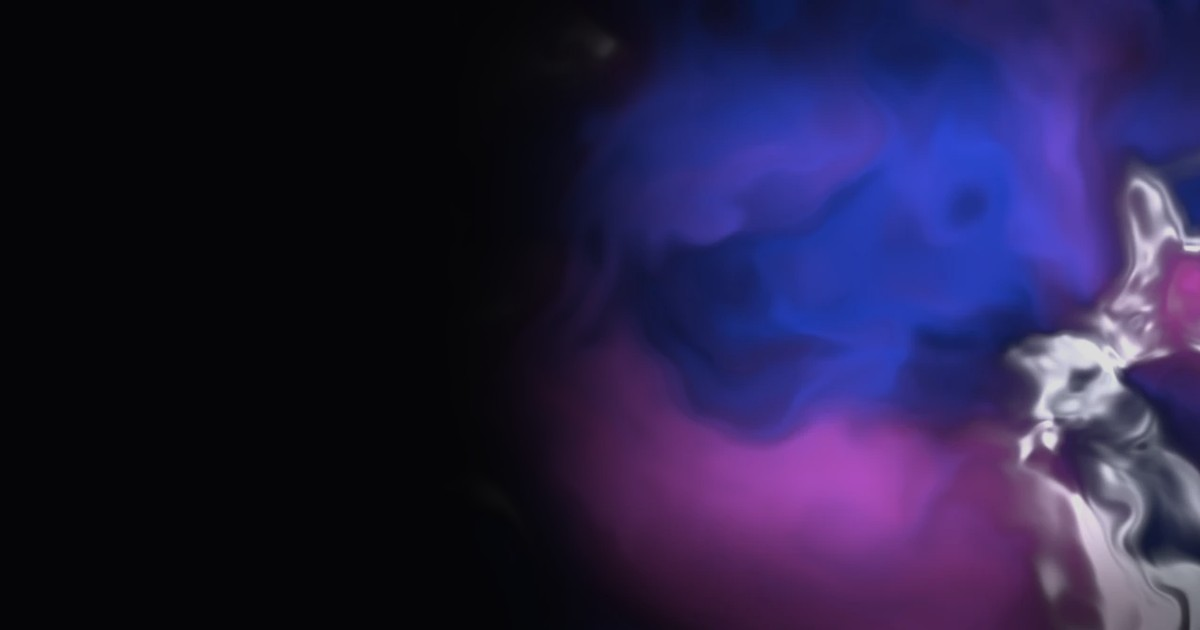
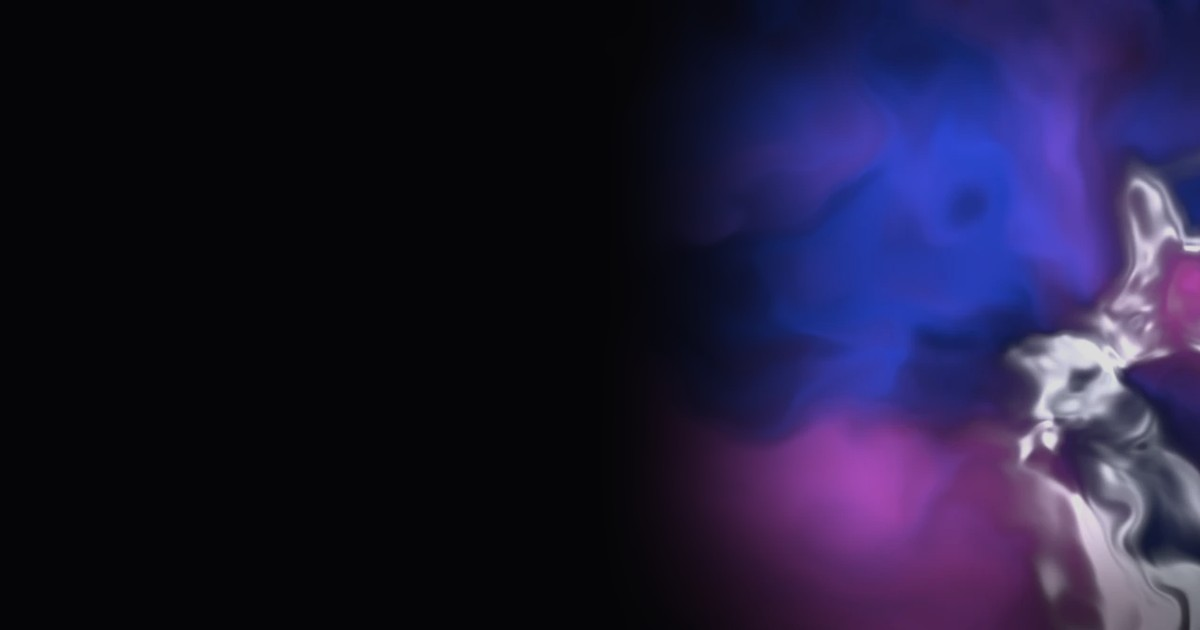
Share card: literal file paths so the build ships only its two images; wider black band before the shader
Claude-Session: https://claude.ai/code/session_01TjeQnQp2J5prxmvBpGHwwk

Changed region(s): [[0.4317, 0.0, 0.7092, 1.0]]

diff --git a/src/app/opengraph-image.tsx b/src/app/opengraph-image.tsx
@@ -52,11 +52,14 @@ async function loadLocalGeist(): Promise<Font | null> {
   }
 }
 
-/** A file under public/ as a data URL, or null when it cannot be read. */
-async function loadDataUrl(path: string, type: "image/png" | "image/jpeg"): Promise<string | null> {
+/**
+ * A file as a data URL, or null when it cannot be read. Each caller spells its path out
+ * whole, in one string: that is how the build sees which file to ship with the route. A
+ * path built from a variable would make it ship all of public/ with every page.
+ */
+async function asDataUrl(read: () => Promise<Buffer>, type: "image/png" | "image/jpeg"): Promise<string | null> {
   try {
-    const buf = await readFile(join(process.cwd(), "public", path));
-    return `data:${type};base64,${buf.toString("base64")}`;
+    return `data:${type};base64,${(await read()).toString("base64")}`;
   } catch {
     return null;
   }
@@ -71,8 +74,8 @@ const FROST = {
 
 export default async function Image() {
   const [mark, background, ...loaded] = await Promise.all([
-    loadDataUrl("brand/tocker/v3/tocker-mark-512.png", "image/png"),
-    loadDataUrl("brand/tocker/v3/og-background.jpg", "image/jpeg"),
+    asDataUrl(() => readFile(join(process.cwd(), "public/brand/tocker/v3/tocker-mark-512.png")), "image/png"),
+    asDataUrl(() => readFile(join(process.cwd(), "public/brand/tocker/v3/og-background.jpg")), "image/jpeg"),
     loadLocalGeist(),
     loadGeistFromGoogle(500),
     loadGeistFromGoogle(600),

diff --git a/scripts/brand/make-og-background.py b/scripts/brand/make-og-background.py
@@ -30,8 +30,10 @@ W, H = 1200, 630
 CROP_X = 1170
 # How bright the shader stays (1 = as in the banner): "light", so the type leads.
 GAIN = 0.86
-# The fade into the ground, as fractions of the art's width from its left edge.
-FADE_FROM, FADE_TO = 0.0, 0.42
+# The fade into the ground, as fractions of the art's width from its left edge. It starts
+# well inside the art, so a band of black stays between the headline and the colour, as
+# on the banner, and the cut-off tail of the banner's smoke at the top fades out with it.
+FADE_FROM, FADE_TO = 0.22, 0.62
 GROUND = np.array([5, 5, 7], dtype=np.float32)
 
 
